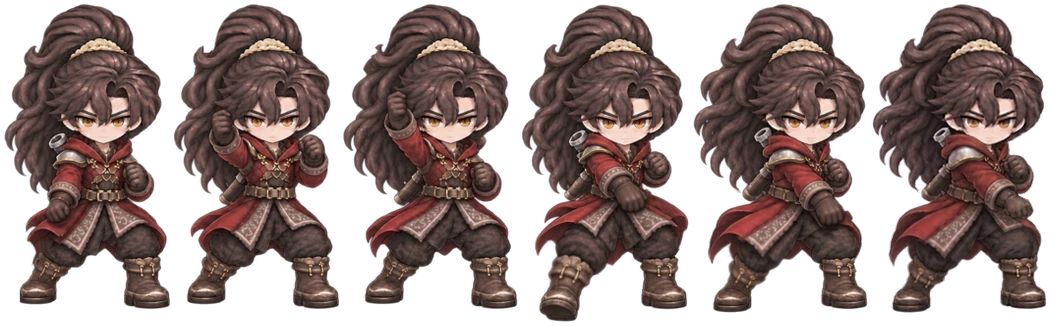
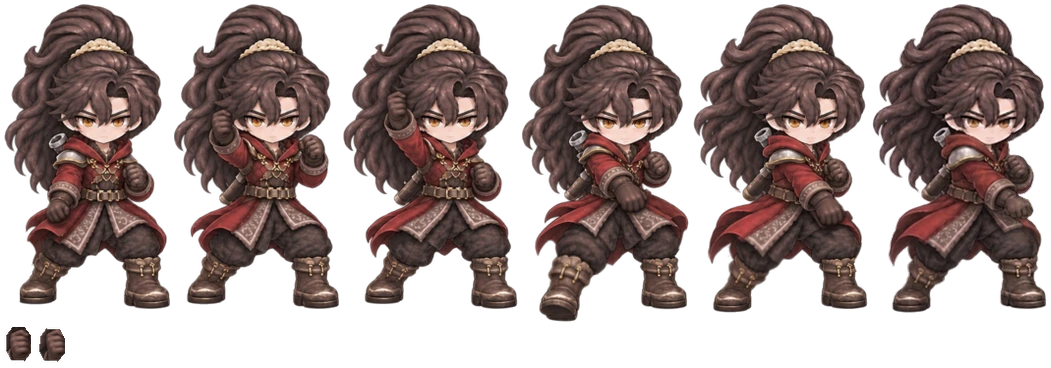
주인공 6프레임 공격 검 그립·레이어·중심선 보정(측면 3타 이탈 해결, 정면 gripCover·바닥 뚫림 보정, 후면 3타 정렬)

diff --git a/src/entities/HeroSprite.ts b/src/entities/HeroSprite.ts
@@ -335,6 +335,7 @@ export class HeroSprite extends Phaser.GameObjects.Container {
       }
       this.weaponBack.setScale(scale);
       this.weaponFront.setScale(scale, scale * lengthScale);
+      if (attacking && f.gripCover) this.showHandCover(f, f.gripCover);
       return;
     }
     const scale = Math.hypot(dx, dy) / weaponAtlas.bladeLength;

diff --git a/tools/build_attack_six.py b/tools/build_attack_six.py
@@ -22,39 +22,54 @@ SOURCE_BODY = 310   # 원화의 발바닥~머리끝 높이(6칸 거의 같음)
 FOOT_BACK = 68      # 앞발 발끝에서 발 기준점까지 (1번 칸에서 두 발 가운데)
 ALPHA_FLOOR = 24    # 생성 도구가 남긴 거의 투명한 번짐은 지운다
 
+# 정면·옆모습·위쪽 원화의 칼 길이를 통일한다(방향은 원화 그대로).
+FRONT_BLADE = 135
+
+
+def toward(guard, tip, length):
+    """원화에서 잰 방향으로 칼 길이만 맞춘다(원근 칼은 짧게, 일반 칼은 일정 길이로)."""
+    dx, dy = tip[0] - guard[0], tip[1] - guard[1]
+    k = length / math.hypot(dx, dy)
+    return (guard[0] + dx * k, guard[1] + dy * k)
+
+
+def side(foot_x: int, sole: int, guard, tip, length: float = FRONT_BLADE):
+    return (foot_x, sole, guard, toward(guard, tip, length))
+
+
 # 칸마다 (앞발 발끝 x, 발바닥 y, 코등이 (x, y), 칼끝 (x, y)) — 칼이 그려진 원본의 칸 안 픽셀 좌표
 SHEETS = [
     dict(prefix='attack', name='attack-side6', shift=[0] * 6, grip_covers={
         1: [(203, 260), (216, 260), (221, 267), (220, 290), (215, 298), (203, 297), (198, 289), (198, 269)],
         2: [(215, 239), (226, 238), (233, 243), (235, 258), (231, 269), (224, 273), (211, 269), (208, 259), (209, 246)],
     }, frames=[
-        (331, 466, (290, 383), (405, 441)),  # 0 준비: 칼 4시
-        (334, 466, (210, 250), (210, 112)),  # 1 예비: 칼 12시
-        (319, 466, (203, 229), (121, 130)),  # 2 최대 들어 올림: 칼 11시
-        (336, 406, (345, 251), (480, 251)),  # 3 타격: 칼 3시
-        (317, 407, (283, 337), (360, 420)),  # 4 내려 베기 마무리: 칼 5시
-        (307, 406, (267, 321), (380, 390)),  # 5 복귀
+        side(331, 466, (290, 383), (405, 441)),       # 0 준비: 칼 4시
+        side(334, 466, (210, 250), (210, 112)),       # 1 예비: 칼 12시
+        side(319, 466, (211, 238), (129, 139)),       # 2 최대 들어 올림: 칼 11시 (코등이 주먹 밀착)
+        side(336, 406, (345, 251), (480, 251)),       # 3 타격: 칼 3시
+        side(317, 407, (283, 337), (360, 420), 124),  # 4 내려 베기 마무리: 칼 5시
+        side(307, 406, (267, 321), (380, 390)),       # 5 복귀
     ]),
     # 2타 상승 베기. 칼을 지운 편집본은 0·3·5번 칸의 몸이 원본보다 옆으로 3px 밀려 있어(shift),
     # 원본에서 잰 좌표를 그만큼 옮겨 편집본의 몸에 맞춘다(양수 = 편집본이 원본보다 왼쪽).
     # 2번 칸은 다시 그린 자세(낮게 웅크리고 주먹을 무릎 높이로, 칼 5시)라 편집본도 원본과 같은 자리에 있다.
     dict(prefix='attack2', name='attack2-side6', shift=[3, 0, 0, 3, 0, -3], frames=[
-        (329, 466, (287, 379), (405, 441)),  # 0 시작(1타의 끝): 칼 4시
-        (337, 466, (173, 365), (61, 435)),   # 1 낮게 뒤로 당김: 칼 8시
-        (317, 465, (285, 391), (393, 461)),  # 2 휘두르기 시작: 낮게 웅크리고 칼 4~5시
-        (331, 406, (365, 232), (471, 132)),  # 3 타격(올려 베기): 칼 2시
-        (317, 406, (350, 172), (300, 40)),   # 4 마무리: 칼 12시
-        (310, 406, (310, 283), (412, 185)),  # 5 자세 정리(3타 시작): 칼 2시
+        side(329, 466, (287, 379), (405, 441)),       # 0 시작(1타의 끝): 칼 4시
+        side(337, 466, (173, 365), (61, 435)),        # 1 낮게 뒤로 당김: 칼 8시
+        side(317, 465, (285, 391), (393, 461), 130),  # 2 휘두르기 시작: 낮게 웅크리고 칼 4~5시
+        side(331, 406, (365, 232), (471, 132)),       # 3 타격(올려 베기): 칼 2시
+        side(317, 406, (342, 171), (292, 39)),        # 4 마무리: 칼 12시 (코등이 주먹 중앙 정렬)
+        side(310, 406, (310, 283), (412, 185)),       # 5 자세 정리(3타 시작): 칼 2시
     ]),
-    # 3타 찌르기(마무리 일격). 편집본의 밀림은 2타와 같은 칸에 같은 크기다.
+    # 3타 찌르기(마무리 일격). 0번 칸은 2타 마지막(5번)과 동일 자세로 통일해 주먹·칼 이탈과 튐을 없앴다.
     # 앞발이 거의 제자리이고 뒷발이 뒤로 벌어지며 찌른다(게임이 캐릭터를 앞으로 46px 내딛게 한다).
-    dict(prefix='attack3', name='attack3-side6', shift=[3, 0, -3, 3, 0, -3], frames=[
-        (340, 466, (347, 353), (440, 248)),  # 0 시작(2타의 끝): 칼 2시
-        (337, 466, (279, 325), (417, 325)),  # 1 당김: 칼 3시, 빈손은 앞으로 겨눔
-        (330, 466, (293, 327), (433, 327)),  # 2 깊이 웅크림: 칼 3시(얼굴 높이)
-        (327, 406, (375, 255), (510, 253)),  # 3 찌르기(타격): 칼 3시, 팔을 쭉 뻗음
-        (325, 406, (369, 255), (507, 255)),  # 4 유지
-        (310, 406, (267, 321), (383, 389)),  # 5 복귀(1타의 시작): 칼 4시
+    dict(prefix='attack3', name='attack3-side6', shift=[0, 0, -3, 3, 0, -3], frames=[
+        side(313, 466, (313, 343), (415, 245)),       # 0 시작(2타의 끝과 동일): 칼 2시
+        side(337, 466, (279, 325), (417, 325)),       # 1 당김: 칼 3시, 빈손은 앞으로 겨눔
+        side(330, 466, (293, 327), (433, 327)),       # 2 깊이 웅크림: 칼 3시(얼굴 높이)
+        side(327, 406, (375, 255), (510, 253)),       # 3 찌르기(타격): 칼 3시, 팔을 쭉 뻗음
+        side(325, 406, (369, 255), (507, 255)),       # 4 유지
+        side(310, 406, (267, 321), (383, 389)),       # 5 복귀(1타의 시작): 칼 4시
     ]),
 ]
 
@@ -64,48 +79,45 @@ SHEETS = [
 FRONT_FOOT = 76
 
 
-def toward(guard, tip, length):
-    """화면 쪽으로 겨눈 칼: 그림 속 칼은 원근으로 아주 짧게(60px) 그려져 있어, 같은 방향으로 길이만 정한다."""
-    dx, dy = tip[0] - guard[0], tip[1] - guard[1]
-    k = length / math.hypot(dx, dy)
-    return (guard[0] + dx * k, guard[1] + dy * k)
-
-
-# 정면 원화의 칼은 옆모습보다 짧게(약 100px) 그려졌다. 칼은 장착 무기 레이어라 길이를 정할 수 있으므로,
-# 방향을 바꿔도 칼 크기가 같도록 옆모습 칼 길이(약 135px)로 맞춘다(방향은 원화 그대로).
-FRONT_BLADE = 135
-
-
 def front(outer: int, sole: int, guard, tip, length: float = FRONT_BLADE):
     return (outer - FRONT_FOOT, sole, guard, toward(guard, tip, length))
 
 
+FRONT_SETTLE_GRIP_COVER = [(230, 308), (255, 307), (263, 318), (262, 336), (253, 343), (233, 343), (224, 334), (224, 318)]
+
 SHEETS += [
-    dict(prefix='attack1', view='front', name='attack-front6', shift=[0] * 6, frames=[
-        front(323, 465, (203, 379), (149, 463)),  # 0 준비: 칼 7시
-        front(323, 465, (205, 260), (205, 144)),  # 1 예비: 머리 옆, 칼 12시
-        front(323, 465, (196, 247), (130, 166)),  # 2 최대 들어 올림: 칼 10~11시
-        front(323, 465, (272, 354), (348, 420)),  # 3 타격: 칼 4~5시, 왼발을 화면 쪽으로 내디딤
-        front(323, 465, (294, 373), (346, 452)),  # 4 마무리: 칼 5시
-        front(323, 461, (307, 365), (394, 417)),  # 5 복귀(2타의 시작): 주먹은 화면 오른쪽 옆
+    dict(prefix='attack1', view='front', name='attack-front6', shift=[0] * 6, grip_covers={
+        1: [(197, 260), (209, 260), (215, 268), (215, 286), (209, 294), (196, 293), (191, 284), (191, 268)],
+        2: [(192, 243), (205, 244), (210, 253), (210, 268), (203, 276), (190, 275), (185, 266), (186, 251)],
+    }, frames=[
+        front(323, 465, (203, 379), (149, 463), 104),  # 0 준비: 칼 7시 (바닥선 안쪽 유지)
+        front(323, 465, (205, 259), (205, 144)),       # 1 예비: 머리 옆, 칼 12시
+        front(323, 465, (194, 245), (128, 164)),       # 2 최대 들어 올림: 칼 10~11시
+        front(323, 465, (272, 354), (348, 420)),       # 3 타격: 칼 4~5시, 왼발을 화면 쪽으로 내디딤
+        front(323, 465, (294, 373), (346, 452), 112),  # 4 마무리: 칼 5시 (바닥선 안쪽 유지)
+        front(323, 461, (307, 365), (394, 417), 125),  # 5 복귀(2타의 시작): 주먹은 화면 오른쪽 옆
     ]),
-    dict(prefix='attack2', view='front', name='attack2-front6', shift=[0] * 6, perspective={5: 'down'}, frames=[
-        front(323, 460, (307, 364), (394, 416)),  # 0 시작(1타의 끝), 원화가 1px 위에 정렬됨
-        front(326, 465, (280, 402), (369, 452)),  # 1 낮게 당김: 칼 4~5시
-        front(327, 465, (237, 358), (237, 443)),  # 2 휘두르기 시작: 칼 6시
-        front(326, 466, (197, 297), (106, 217)),  # 3 타격(올려 베기): 칼 10시
-        front(326, 465, (185, 247), (146, 134)),  # 4 마무리: 칼 11~12시
-        front(326, 465, (247, 345), (247, 426), 81),  # 5 자세 정리(3타의 시작): 칼 6시
+    dict(prefix='attack2', view='front', name='attack2-front6', shift=[0] * 6, perspective={2: 'down', 5: 'down'}, grip_covers={
+        3: [(196, 282), (211, 285), (220, 296), (218, 312), (207, 318), (194, 313), (184, 302), (184, 291)],
+        4: [(181, 246), (193, 247), (200, 260), (201, 277), (192, 286), (180, 283), (172, 272), (171, 256)],
+        5: FRONT_SETTLE_GRIP_COVER,
+    }, frames=[
+        front(323, 460, (307, 364), (394, 416), 125),  # 0 시작(1타의 끝), 원화가 1px 위에 정렬됨
+        front(326, 465, (280, 402), (369, 452), 118),  # 1 낮게 당김: 칼 4~5시
+        front(327, 465, (237, 356), (237, 444), 88),   # 2 휘두르기 시작: 칼 6시 원근 (바닥 뚫림 방지)
+        front(326, 466, (193, 290), (102, 210)),       # 3 타격(올려 베기): 칼 10시
+        front(326, 465, (183, 247), (144, 134)),       # 4 마무리: 칼 11~12시
+        front(326, 465, (247, 342), (247, 423), 81),   # 5 자세 정리(3타의 시작): 칼 6시
     ]),
     # 3타 찌르기: 시작부터 유지까지(0~4번) 화면 쪽을 겨누는 원근 무기 그림('down')을 쓴다.
     dict(prefix='attack3', view='front', name='attack3-front6', shift=[0] * 6,
-         perspective=dict.fromkeys(range(5), 'down'), frames=[
-        front(326, 465, (247, 345), (247, 426), 81),  # 0 시작(2타의 끝): 칼 6시
-        front(326, 465, (214, 339), (215, 399), 75),  # 1 당김
-        front(333, 465, (225, 358), (226, 418), 75),  # 2 깊이 웅크림
-        front(328, 465, (249, 373), (249, 437), 100), # 3 찌르기(타격): 낮게 내딛는 최신 원화
-        front(327, 466, (248, 381), (247, 441), 100), # 4 유지
-        front(323, 465, (203, 379), (149, 463)),                          # 5 복귀(1타의 시작): 칼 7시
+         perspective=dict.fromkeys(range(5), 'down'), grip_covers={0: FRONT_SETTLE_GRIP_COVER}, frames=[
+        front(326, 465, (247, 342), (247, 423), 81),   # 0 시작(2타의 끝): 칼 6시
+        front(332, 465, (214, 336), (215, 396), 75),   # 1 당김 (중심선·코등이 밀착 보정)
+        front(333, 465, (225, 354), (226, 414), 75),   # 2 깊이 웅크림 (코등이 밀착 보정)
+        front(328, 465, (249, 369), (249, 433), 100),  # 3 찌르기(타격): 낮게 내딛는 최신 원화
+        front(327, 466, (248, 376), (247, 436), 100),  # 4 유지
+        front(323, 465, (203, 379), (149, 463), 104),  # 5 복귀(1타의 시작): 칼 7시
     ]),
 ]
 
@@ -136,16 +148,16 @@ SHEETS += [
         back(178, 450, (158, 373), (92, 456)),   # 1 낮게 감아 들임: 칼 7시
         back(179, 450, (155, 333), (54, 333)),   # 2 올리기 시작: 칼 9시
         back(180, 450, (349, 175), (423, 83)),   # 3 타격(올려 베기): 칼 1~2시
-        back(180, 450, (325, 146), (359, 38)),   # 4 마무리: 칼 12시
+        back(180, 450, (318, 153), (352, 45)),   # 4 마무리: 칼 12시 (코등이 주먹 상단 밀착)
         back(179, 451, (319, 238), (371, 141)),  # 5 자세 정리(3타의 시작): 칼 1시
     ]),
     dict(prefix='attack3', view='back', name='attack3-back6', shift=[0] * 6,
          perspective=dict.fromkeys(range(1, 5), 'up'), frames=[
         back(179, 451, (319, 238), (371, 141)),       # 0 시작(2타의 끝): 칼 1시
-        back(179, 451, (292, 282), (291, 215), 75),   # 1 당김: 오른쪽 허리 옆, 먼 곳을 겨눔
-        back(181, 451, (295, 307), (295, 239), 75),   # 2 깊이 웅크림
-        back(180, 450, (316, 188), (316, 117), 100),  # 3 찌르기(타격): 머리 오른쪽 위로 먼 곳을 찌름
-        back(180, 450, (316, 189), (316, 116), 100),  # 4 유지
+        back(148, 451, (292, 279), (291, 212), 75),   # 1 당김: 중심선 정렬·코등이 주먹 상단 정렬
+        back(149, 451, (295, 303), (295, 235), 75),   # 2 깊이 웅크림: 중심선 정렬·코등이 주먹 상단 정렬
+        back(180, 450, (316, 184), (316, 113), 100),  # 3 찌르기(타격): 코등이 주먹 상단 정렬
+        back(180, 450, (316, 185), (316, 112), 100),  # 4 유지: 코등이 주먹 상단 정렬
         back(183, 451, (332, 293), (388, 195)),       # 5 복귀(1타의 시작): 칼 1시
     ]),
 ]
